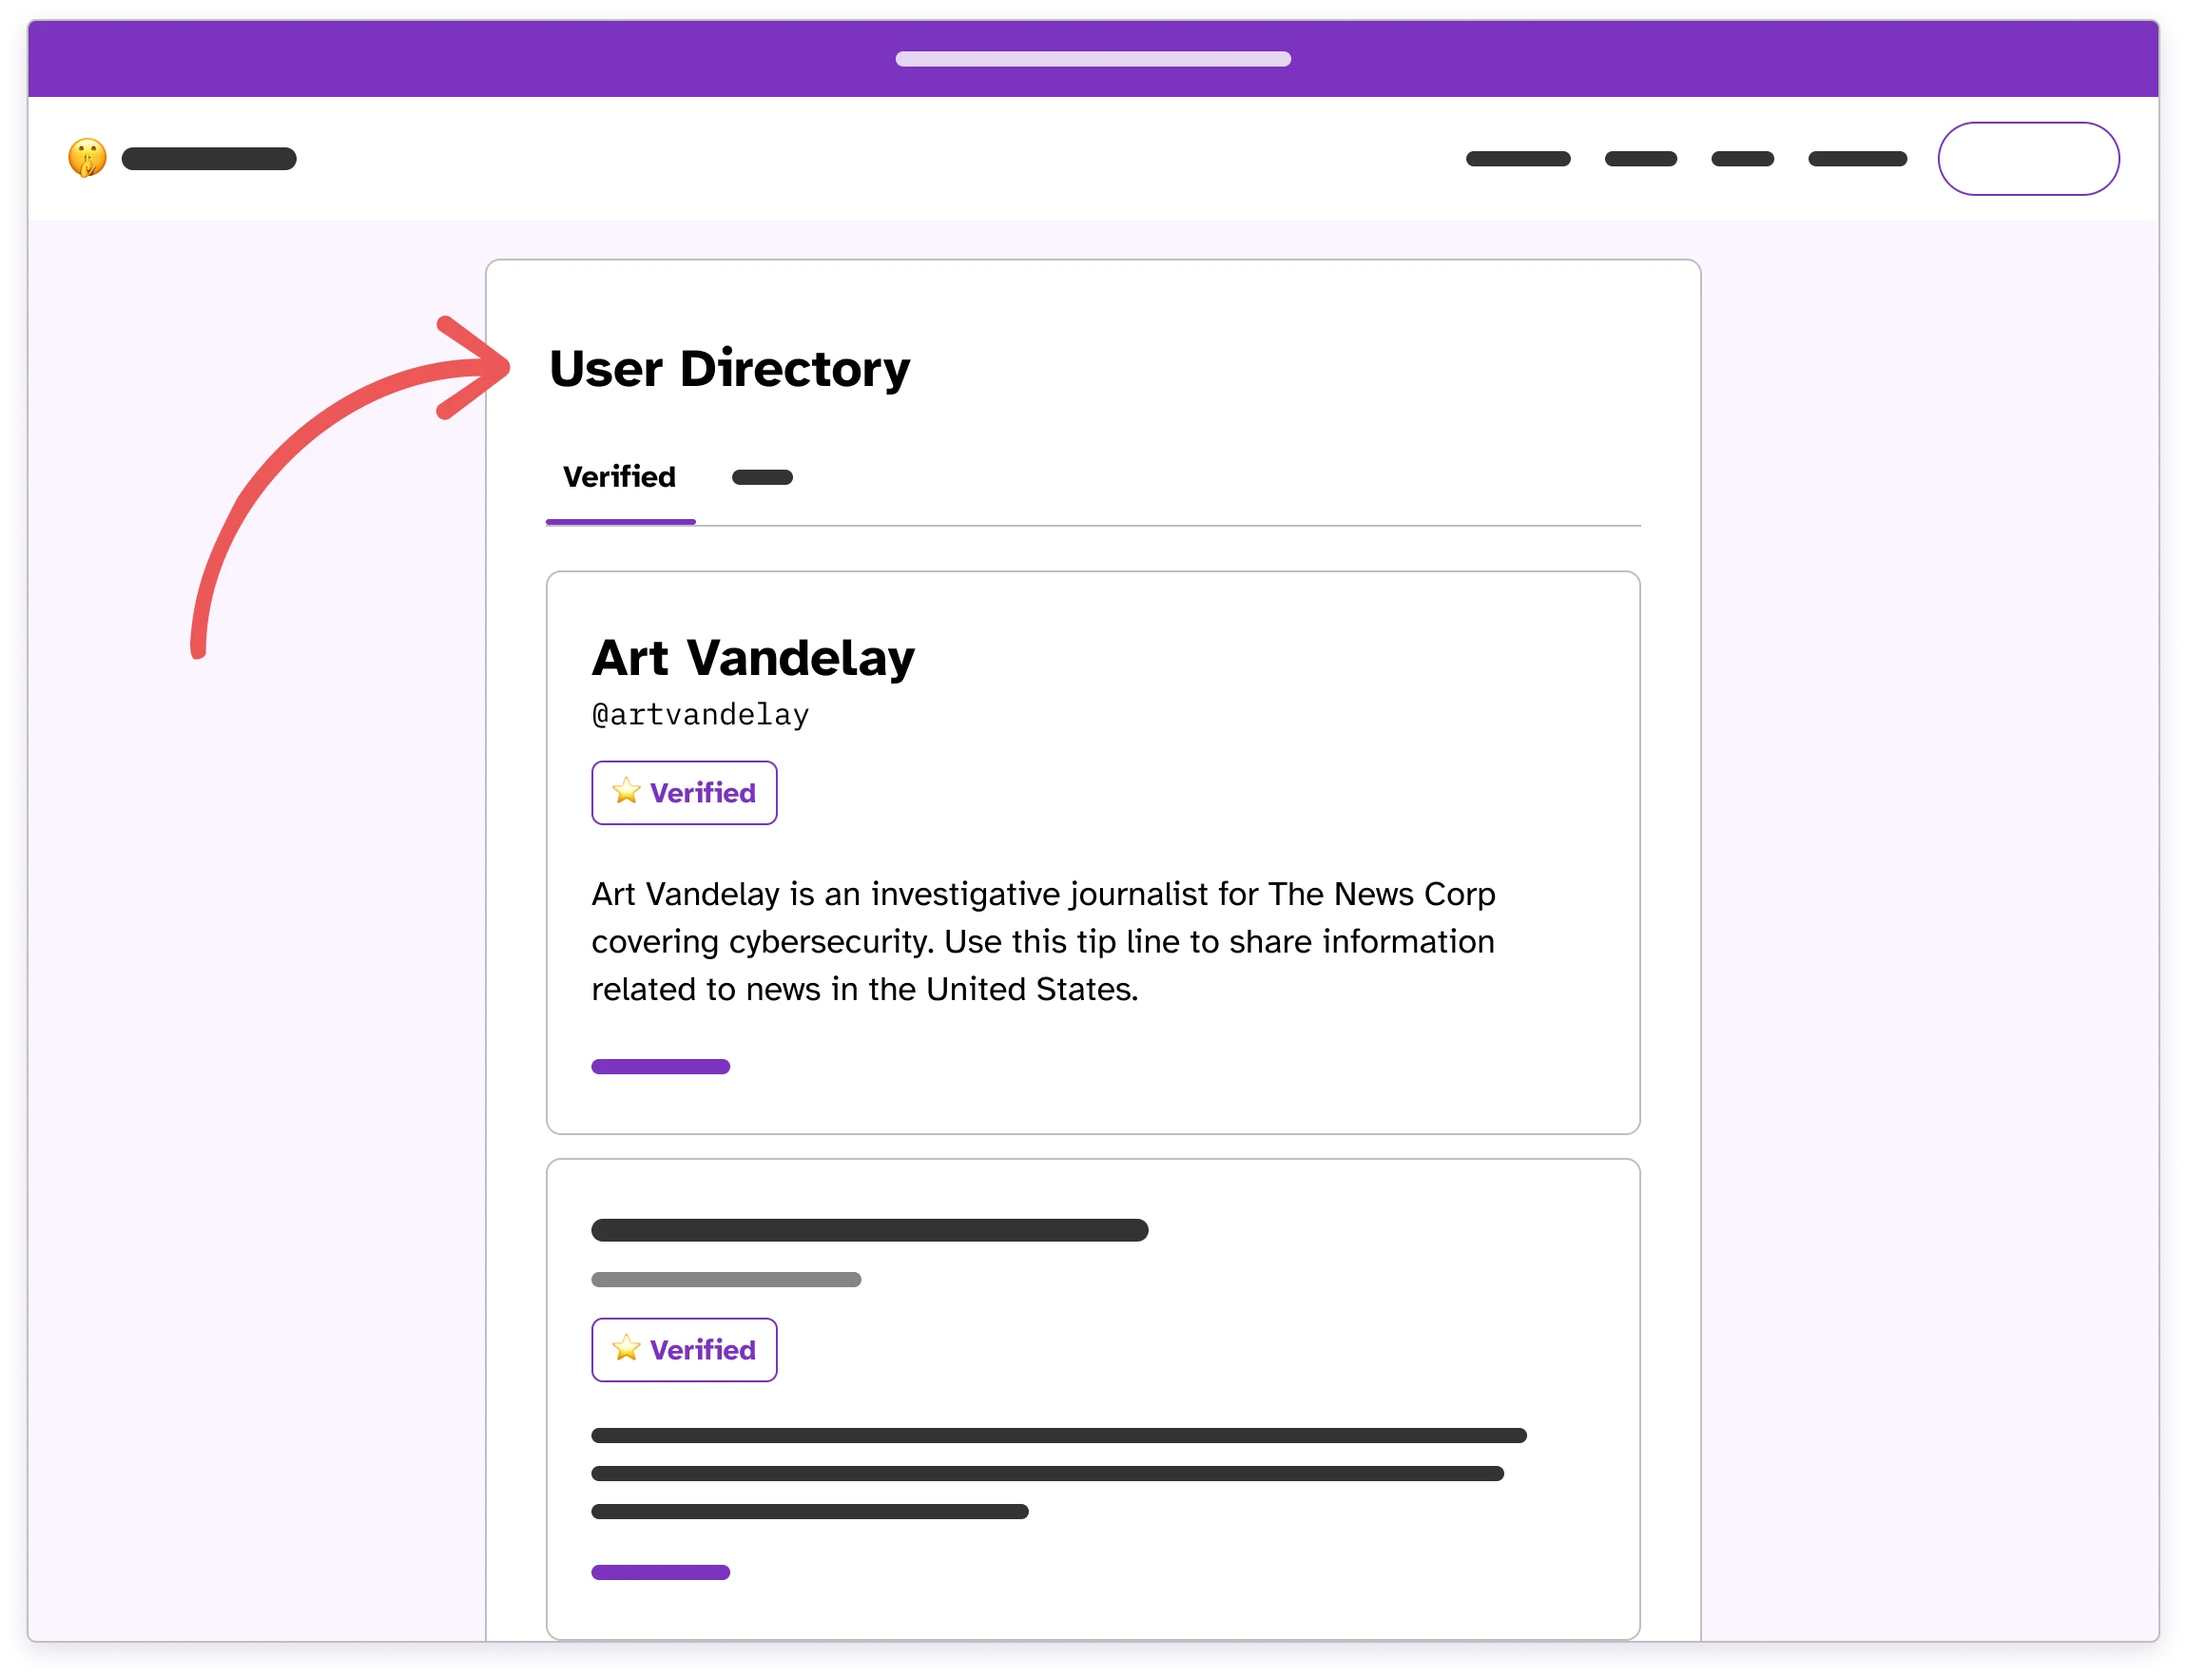
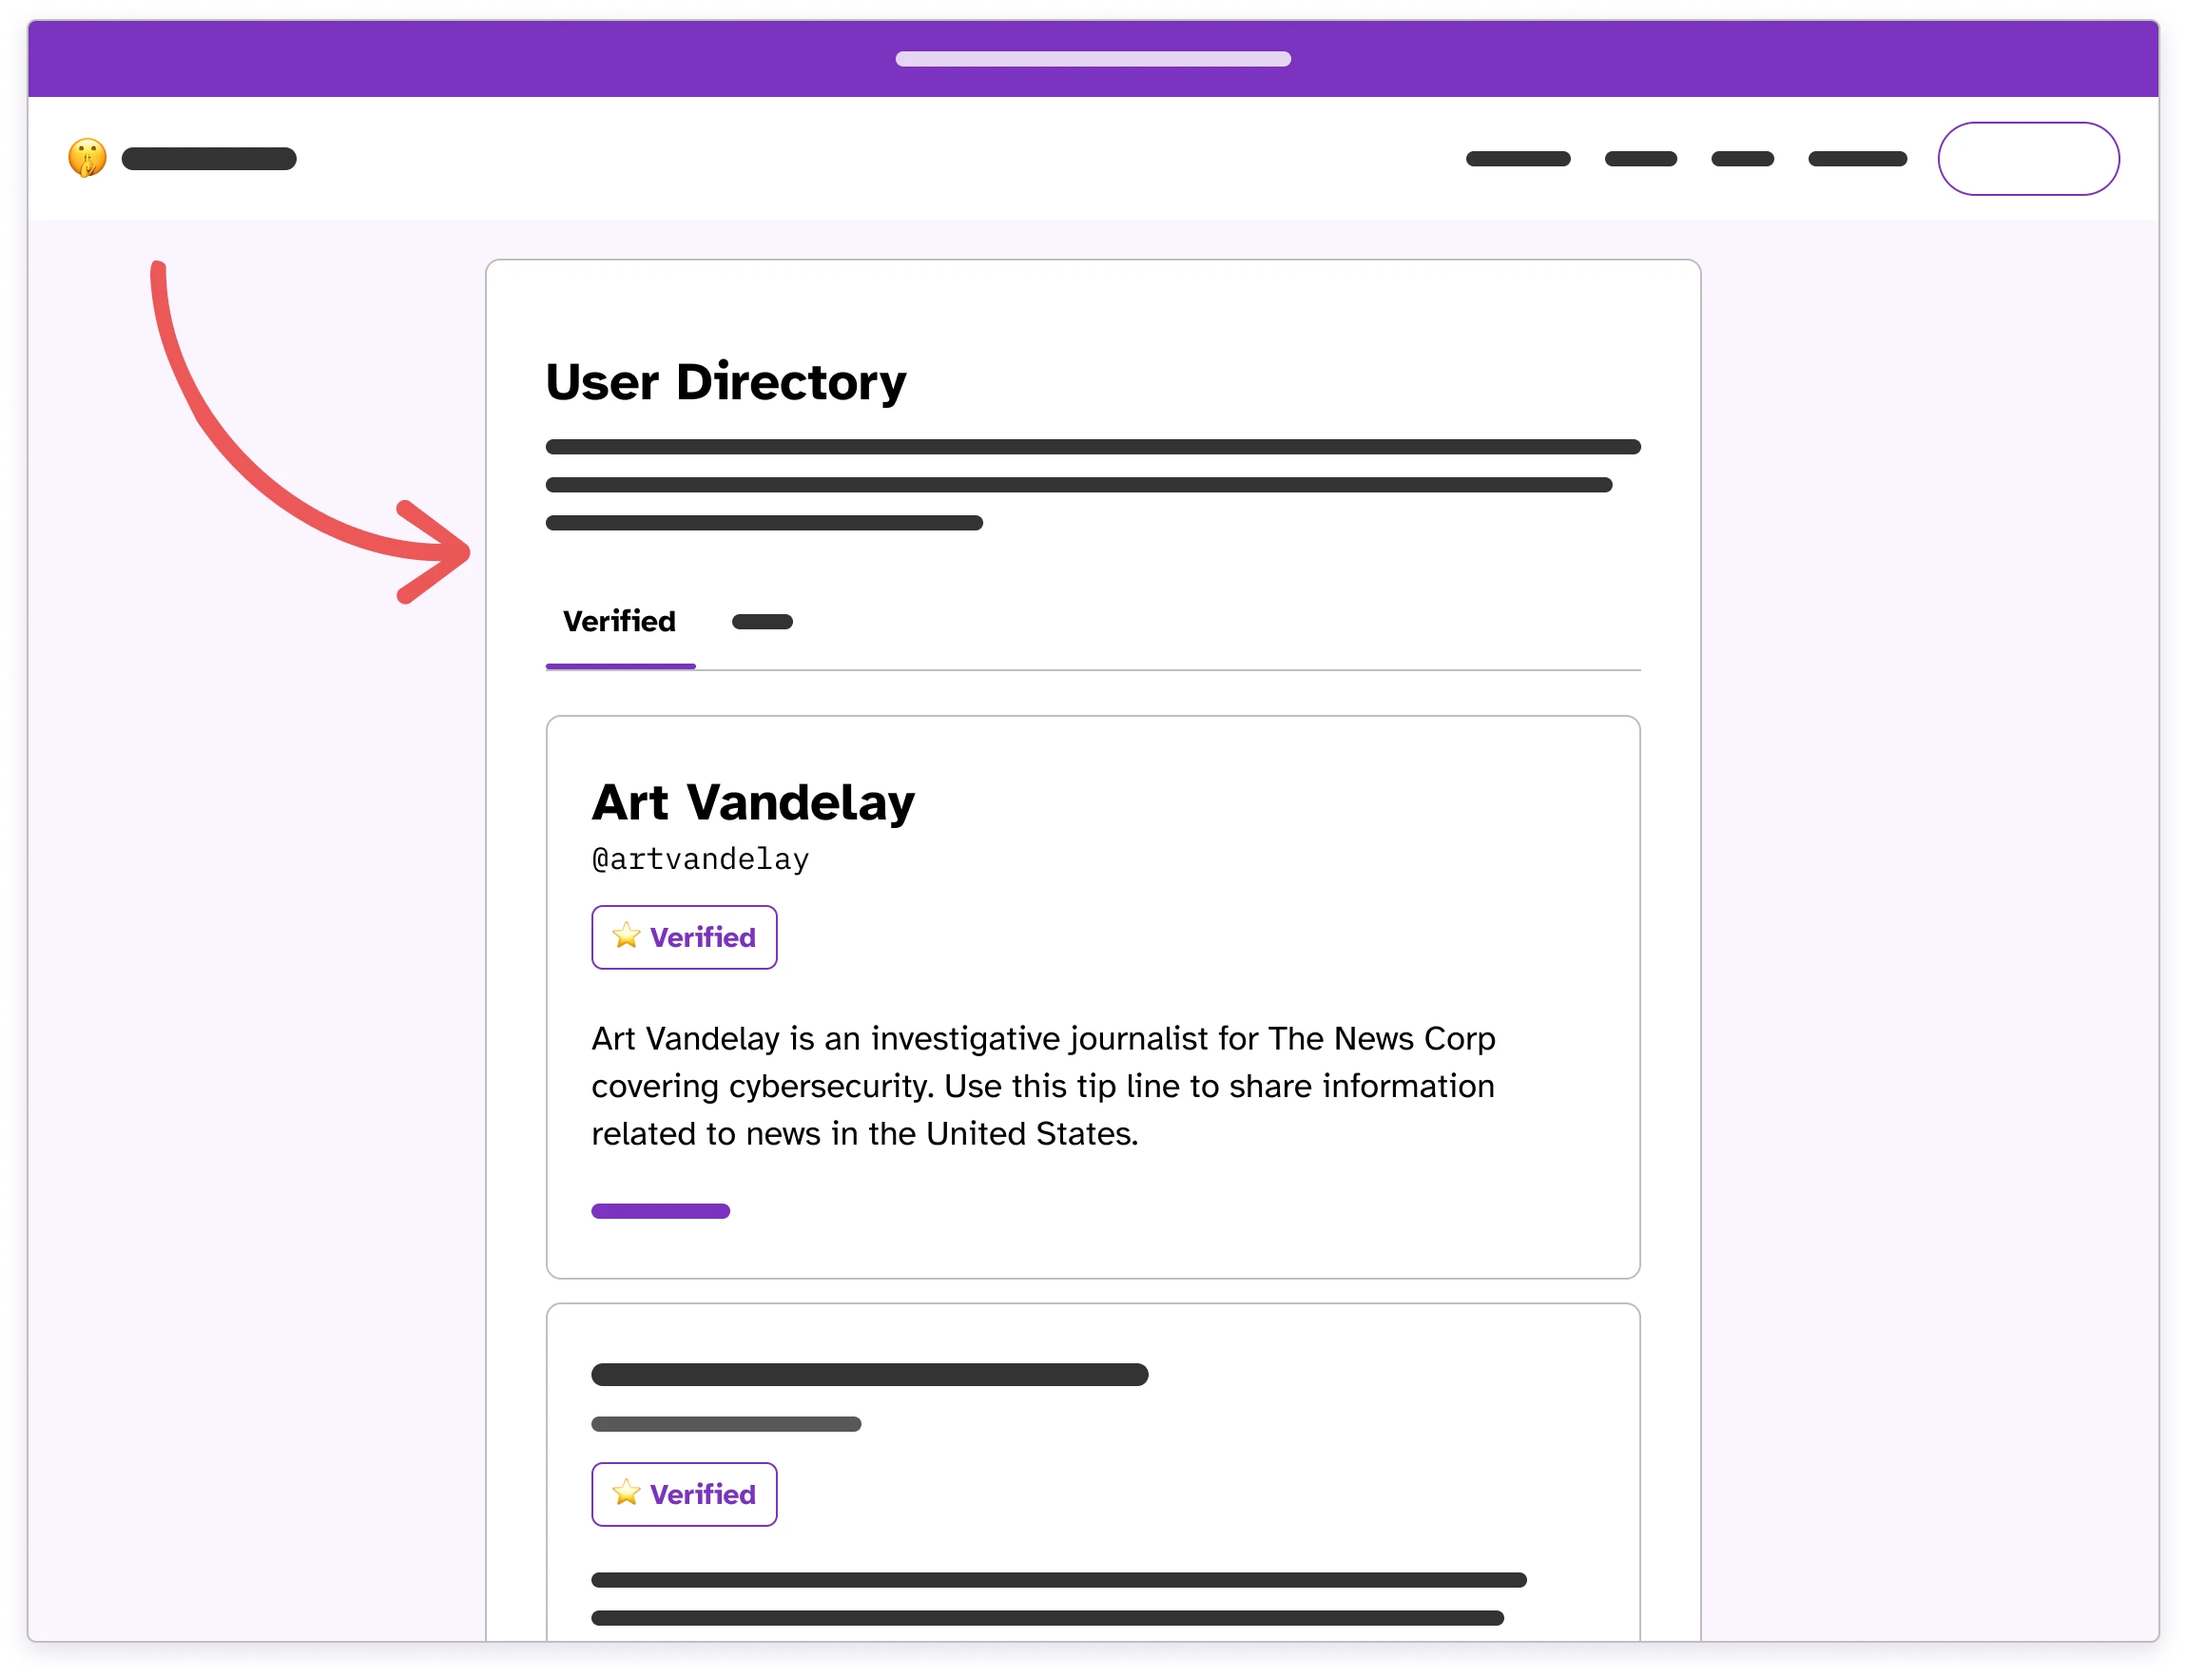
update image

diff --git a/src/start-here.html b/src/start-here.html
@@ -373,7 +373,7 @@
                                     <p>First, if you're in immediate physical danger, call your local emergency services. If you're a concerned employee or citizen and are not in immediate danger, you can use the Hush Line User Directory to find journalists, lawyers, or other organizations who can help.</p>
                                     <a href="https://tips.hushline.app/directory" class="btn btnLrg" rel="noopener noreferrer" target="_blank">User Directory</a>
                                 </div>
-                                <img src="assets/img/docs/directory-verified.webp" alt="Verified tab on the User Directory">
+                                <img src="assets/img/docs/directory.webp" alt="Verified tab on the User Directory">
                             </div>
                         </div>
             
